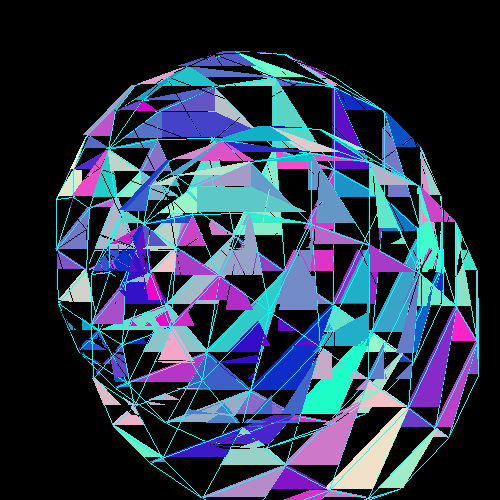
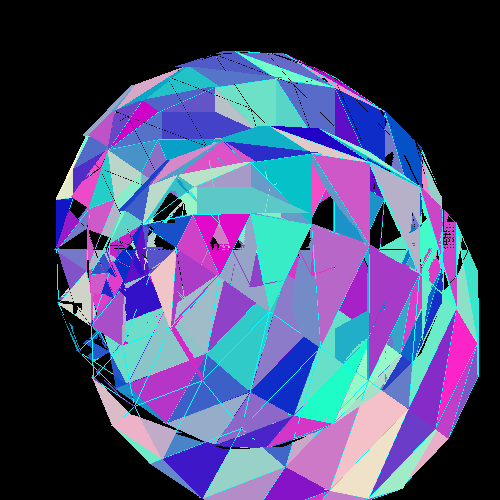
work

diff --git a/draw.c b/draw.c
@@ -203,8 +203,8 @@ void scan_line( double x0, double y0, double z0,
     yb += 1;
     zL += dzT;
     zR += dzM;
-    //draw_line( xL, yb, zL, xR, yb, zR, s, c, zbuffer );
-    printf("b->m: From [%f, %f] to [%f, %f]\n", xL, yb, xR,yb);
+    draw_line( xL, yb, zL, xR, yb, zR, s, c, zbuffer );
+    //printf("b->m: From [%f, %f] to [%f, %f]\n", xL, yb, xR,yb);
   }
 
   d1 = ( ( xt - xm ) / ( yt - ym ) );
